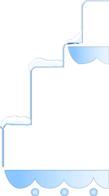
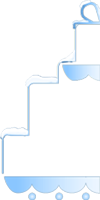
no1

diff --git a/index.html b/index.html
@@ -18,9 +18,31 @@
     * {
       padding: 0;
       margin: 0;
+      box-sizing: border-box;
     }
     html, body {
       height: 100%;
+      background: linear-gradient(to top,#00b1eb,#0067a7);
+    }
+    @media screen and (max-width: 320px) {
+      html {
+        font-size: 16px;
+      }
+    }
+    @media screen and (min-width: 321px) {
+      html {
+        font-size: 16px;
+      }
+    }
+    @media screen and (min-width: 380px) {
+      html {
+        font-size: 18.5px;
+      }
+    }
+    @media screen and (min-width: 440px) {
+      html {
+        font-size: 40px;
+      }
     }
     .swiper-container {
       width: 100%;
@@ -48,6 +70,60 @@
     .ani.red{
     	animation: change 1s linear 0s infinite;
     }
+    .upimg{
+    	width: 100%;
+    	position: relative;
+    }
+    .upimg img{
+    	width: 100%;
+    	position: absolute;
+    	top: -45px;
+    }
+    /*.downimg{
+    	width: 100%;
+    	position: relative;
+    	bottom: 0;
+    }
+    .downimg img{
+    	width: 100%;
+    	position: absolute;
+    }*/
+   .big_box{
+   	width: 100%;
+   	height: 100%;
+   	position: relative;
+   }
+   .big_box .star{
+   	width:100%;
+   	height: 90%;
+   	position: absolute;
+   	background: url(images/star.png) no-repeat center 0;
+   }
+   .head{
+   	width: 5.1rem;
+   	height: 2.7rem;
+   	position: absolute;
+   	top: 8.4rem;
+   	left: 9.5rem;
+   	background: ;
+   }
+   .left{
+   	width: 18rem;
+   	height: 16.3rem;
+   	position: absolute;
+   	top: 7.0rem;
+   	left: 0.5rem;
+   	background: url(images/all.png) no-repeat;
+   }
+   /*
+   .right{
+   	width: 9.1rem;
+   	height: 16.3rem;
+   	position: absolute;
+   	top: 10.2rem;
+   	right: 2.9rem;
+   	background: url(images/right.png) no-repeat;
+   }*/
   </style>
 </head>
 <body>
@@ -55,12 +131,23 @@
   <div class="swiper-container">
     <div class="swiper-wrapper">
       <div class="swiper-slide">
+      	<div class="upimg">
+      		<img src="images/up.png" alt="" />
+      	</div>
+      	<div class="big_box">
+      		<div class="star"></div>
+      		<div class="head"></div>
+      		<div class="left"></div>
+      	</div>
         <h2
         class="ani"
         swiper-animate-effect="zoomInUp"
         swiper-animate-duration="1s"
         swiper-animate-delay="0s"
         >context</h2>
+        <div class="downimg">
+      		<img src="images/down.png" alt="" />
+      	</div>
       </div>
       <div class="swiper-slide">
         <img src="images/1.png"
